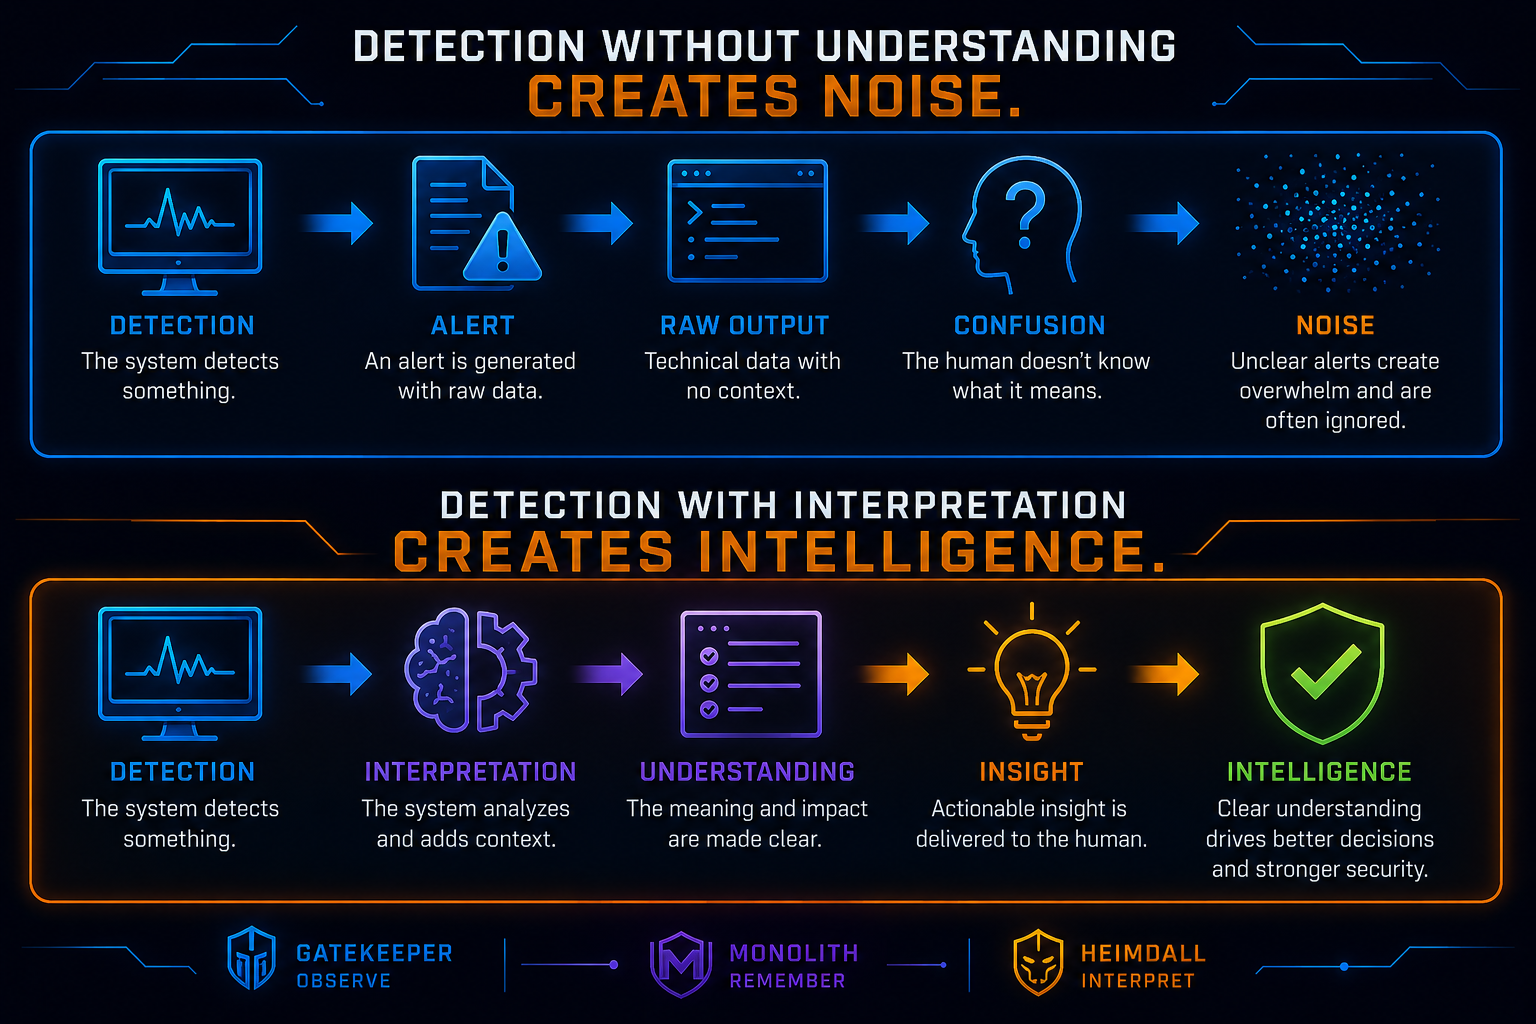
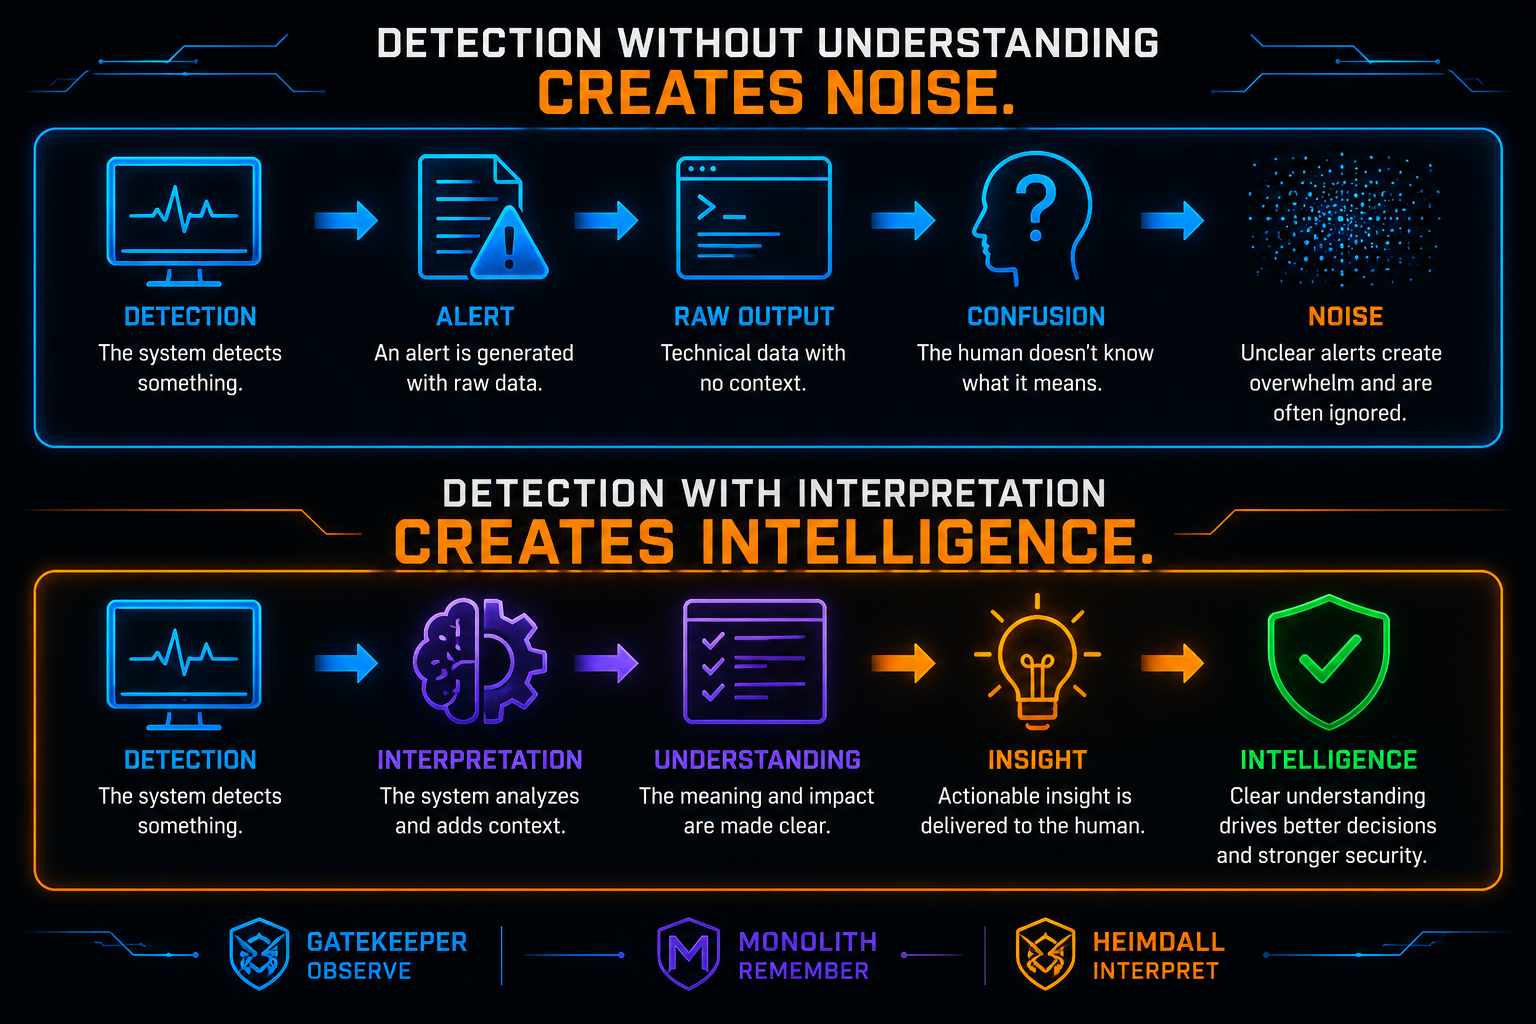
Reset ecosystem architecture image

Changed region(s): [[0.0, 0.0, 1.0, 0.9688], [0.0312, 0.0312, 0.2188, 0.0938], [0.8125, 0.0312, 0.9688, 0.0938]]

diff --git a/README.md b/README.md
@@ -83,7 +83,7 @@ This enables:
 # Ecosystem Vision
 
 <p align="center">
-  <img src="docs/images/philosophy.png" width="100%">
+  ![Platform Philosophy](docs/images/philosophy.png)
 </p>
 
 ```text
@@ -91,6 +91,14 @@ GateKeeper → Observe
 Monolith → Remember
 Heimdall → Interpret
 ```
+
+Project GateKeeper is evolving toward a cooperative security intelligence ecosystem built around layered responsibilities and explainable security analysis.
+
+- **GateKeeper** performs endpoint observation, validation, and structured security analysis.
+- **Monolith** serves as the centralized intelligence persistence and contextual memory layer.
+- **Heimdall** acts as the interpretation and adaptive analysis layer, transforming technical findings into contextual human-readable intelligence.
+
+This architecture supports future explainable security intelligence workflows, adaptive analysis, structured trust-aware interpretation, and resilient analysis across heterogeneous API environments.
 
 ---
 